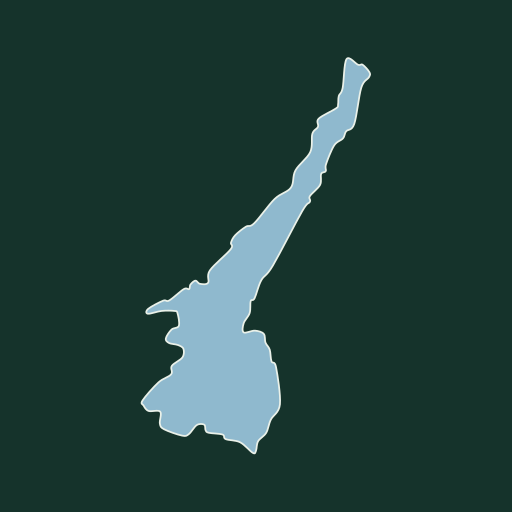
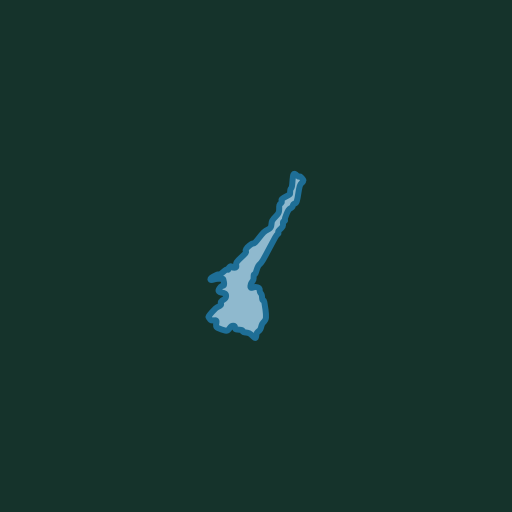
Add files via upload

Changed region(s): [[0.2812, 0.0938, 0.7188, 0.9062]]

diff --git a/index.html b/index.html
@@ -74,55 +74,57 @@
   .kz-wert small{font-size:1rem;font-family:'Archivo',sans-serif;color:var(--oliva-2)}
   .chart-box{position:relative;height:230px;margin-top:.6rem}
 
-  /* Signatur: Gardasee-Kontur, Pegellatte von Peschiera und Kennzahlen nebeneinander,
-     Kontur und Latte bewusst in derselben Höhe/Breite - direkt vergleichbare Paar-Grafik. */
-  .pegel{display:grid;grid-template-columns:100px 100px 1fr;gap:1rem;align-items:stretch}
-  @media (max-width:640px){.pegel{grid-template-columns:74px 74px 1fr;gap:.6rem}}
-  @media (max-width:420px){.pegel{grid-template-columns:1fr;gap:.8rem}
-    .kontur,.latte{height:190px;width:100%;max-width:220px}}
+  /* Signatur: der Gardasee als große Kontur, die selbst als Pegelanzeige dient - die Seefläche
+     füllt sich von unten nach oben entsprechend dem aktuellen Stand (Pegellatten-Skala,
+     CFG.lattenBereich), mit eingezeichneter Linie für den aktuellen Stand und das langjährige
+     Mittel. Technik: identischer See-Pfad einmal als leeres Becken, einmal als geclipptes
+     Rechteck (per <clipPath> auf denselben Pfad), dessen Höhe/Position transitioniert wird -
+     dasselbe Prinzip wie zuvor bei der separaten Pegellatte, nur auf die Seeform selbst angewandt. */
+  .pegel{display:grid;grid-template-columns:minmax(210px,360px) 1fr;gap:1.4rem;align-items:start}
+  @media (max-width:640px){.pegel{grid-template-columns:1fr;gap:1rem}}
 
-  .kontur{position:relative;height:250px;display:flex;align-items:center;justify-content:center;
-    background:#DCE0D6;border:1px solid var(--linea);border-radius:2px;overflow:hidden}
-  .kontur svg{width:82%;height:92%}
-  .kontur-see{fill:var(--acqua-2);stroke:var(--acqua);stroke-width:6}
+  .seefuell{position:relative;aspect-ratio:660/1134;max-width:360px;margin:0 auto;
+    background:#DCE0D6;border:1px solid var(--linea);border-radius:4px;overflow:hidden}
+  @media (max-width:640px){.seefuell{max-width:230px}}
+  .seefuell svg{position:absolute;inset:0;width:100%;height:100%;display:block}
+  .see-leer{fill:#CFD6C9;stroke:var(--linea);stroke-width:4}
+  .see-strich{stroke:var(--acqua);stroke-width:5}
+  #seeWasser{transition:y 1.1s cubic-bezier(.22,.8,.3,1), height 1.1s cubic-bezier(.22,.8,.3,1)}
+  .see-linie{stroke-width:4;vector-effect:non-scaling-stroke}
+  .see-linie-guardia{stroke:var(--allerta);stroke-width:4;stroke-dasharray:10 8}
+  .see-linie-mittel{stroke:var(--oliva-2);stroke-dasharray:5 7}
+  .see-linie-aktuell{stroke:var(--oliva);stroke-width:5;
+    transition:y1 1.1s cubic-bezier(.22,.8,.3,1), y2 1.1s cubic-bezier(.22,.8,.3,1)}
+  .see-label{position:absolute;left:4px;transform:translateY(50%);
+    font-family:'DM Mono',monospace;font-size:.6rem;line-height:1.2;white-space:nowrap;
+    color:var(--oliva-2);background:rgba(220,224,214,.88);padding:1px 4px;border-radius:2px;
+    pointer-events:none}
+  .see-label-aktuell{color:var(--oliva);font-weight:600;background:rgba(220,224,214,.96)}
+  .see-label-guardia{color:var(--allerta)}
+  .see-label-mittel{color:var(--oliva-2)}
 
-  .latte{position:relative;background:#DCE0D6;border:1px solid var(--linea);border-radius:2px;min-height:250px;overflow:hidden}
-  .wasser{
-    position:absolute;left:0;right:0;bottom:0;height:0;
-    background:linear-gradient(180deg,rgba(30,110,150,.55),rgba(30,110,150,.8));
-    transition:height 1.1s cubic-bezier(.22,.8,.3,1);
-  }
-  .wasser::before{content:"";position:absolute;top:0;left:0;right:0;height:5px;background:#0F5878;box-shadow:0 0 0 1px rgba(15,88,120,.35)}
-  .spanne5j{position:absolute;left:0;right:0;
-    background:repeating-linear-gradient(135deg,rgba(21,51,43,.10) 0 6px,rgba(21,51,43,.03) 6px 12px);
-    border-top:2px dashed var(--oliva-2);border-bottom:2px dashed var(--oliva-2);
-  }
-  .spanne5j-label{
-    position:absolute;left:3px;font-family:'DM Mono',monospace;font-size:.58rem;line-height:1.15;
-    color:var(--oliva-2);background:rgba(220,224,214,.85);padding:0 2px;max-width:calc(100% - 6px);
-  }
-  .spanne5j-label.spanne5j-max{top:2px}
-  .spanne5j-label.spanne5j-min{bottom:2px}
-  .marke{position:absolute;left:0;right:0;border-top:1px solid rgba(21,51,43,.35)}
-  .marke span{
-    position:absolute;right:4px;top:-1.05em;font-family:'DM Mono',monospace;
-    font-size:.62rem;color:var(--oliva-2);background:rgba(220,224,214,.75);padding:0 2px;
-  }
-  .marke.guardia{border-top:2px dashed var(--allerta)}
-  .marke.guardia span{color:var(--allerta);font-weight:500}
-  .marke.null{border-top:1.5px solid var(--oliva)}
-  .marke.null span{color:var(--oliva)}
   .pegel-info{grid-column:1 / -1}
-  @media (min-width:421px){.pegel-info{grid-column:3}}
+  @media (min-width:641px){.pegel-info{grid-column:2}}
   .pegel-info dl{margin:0}
   .pegel-info dt{font-size:.7rem;text-transform:uppercase;letter-spacing:.08em;color:var(--oliva-2);margin-top:.75rem}
   .pegel-info dd{margin:.1rem 0 0;font-family:'DM Mono',monospace;font-size:.98rem}
+  .kennzahl{align-items:baseline}
+  .trend{font-size:1.5rem;line-height:1}
+  .trend.auf{color:var(--acqua)}
+  .trend.ab{color:var(--trocken)}
+  .trend.stabil{color:var(--oliva-2)}
   .tendenz{font-family:'Archivo',sans-serif;font-size:.85rem;color:var(--oliva-2)}
   .fahne{display:inline-block;font-family:'DM Mono',monospace;font-size:.68rem;letter-spacing:.06em;
     padding:.16rem .45rem;border-radius:2px;border:1px solid currentColor;margin-top:.6rem}
   .fahne.hoch{color:var(--allerta)}
   .fahne.normal{color:var(--acqua)}
   .fahne.tief{color:var(--trocken)}
+
+  .sparkline-wrap{display:flex;align-items:center;gap:.6rem;margin:.8rem 0 .2rem}
+  .sparkline{width:96px;height:28px;flex:none}
+  .sparkline-flaeche{fill:rgba(30,110,150,.14);stroke:none}
+  .sparkline-linie{fill:none;stroke:var(--acqua);stroke-width:2}
+  .sparkline-label{font-size:.68rem;color:var(--oliva-2)}
 
   .meldung{
     border-left:3px solid var(--allerta);background:#F6F0E2;padding:.6rem .8rem;
@@ -132,7 +134,7 @@
   footer{max-width:900px;margin:0 auto;padding:0 1rem 2.5rem;font-size:.74rem;color:var(--oliva-2)}
   footer a{color:var(--acqua)}
   .laedt{color:var(--oliva-2);font-family:'DM Mono',monospace;font-size:.8rem}
-  @media (prefers-reduced-motion:reduce){.wasser{transition:none}}
+  @media (prefers-reduced-motion:reduce){#seeWasser,.see-linie-aktuell{transition:none}}
 </style>
 </head>
 <body>
@@ -156,27 +158,46 @@
     </div>
 
     <div class="pegel">
-      <div class="kontur" aria-hidden="true">
-        <svg viewBox="0 0 660 1134" xmlns="http://www.w3.org/2000/svg">
-          <path class="kontur-see" d="M 633.00 24.00 C 627.67 20.50 627.67 26.67 620.00 24.00 C 612.33 21.33 594.33 -3.00 587.00 8.00 C 579.67 19.00 579.67 72.50 576.00 90.00 C 572.33 107.50 567.17 105.17 565.00 113.00 C 562.83 120.83 564.33 131.17 563.00 137.00 C 561.67 142.83 566.17 141.33 557.00 148.00 C 547.83 154.67 516.50 168.33 508.00 177.00 C 499.50 185.67 509.00 192.83 506.00 200.00 C 503.00 207.17 493.67 208.00 490.00 220.00 C 486.33 232.00 492.00 254.67 484.00 272.00 C 476.00 289.33 451.17 307.17 442.00 324.00 C 432.83 340.83 438.83 359.50 429.00 373.00 C 419.17 386.50 400.33 388.17 383.00 405.00 C 365.67 421.83 338.67 460.83 325.00 474.00 C 311.33 487.17 310.00 478.33 301.00 484.00 C 292.00 489.67 278.00 500.50 271.00 508.00 C 264.00 515.50 261.17 522.33 259.00 529.00 C 256.83 535.67 268.00 534.83 258.00 548.00 C 248.00 561.17 209.67 592.17 199.00 608.00 C 188.33 623.83 198.67 636.67 194.00 643.00 C 189.33 649.33 177.00 647.00 171.00 646.00 C 165.00 645.00 162.50 636.67 158.00 637.00 C 153.50 637.33 147.00 644.00 144.00 648.00 C 141.00 652.00 143.17 658.83 140.00 661.00 C 136.83 663.17 134.33 655.67 125.00 661.00 C 115.67 666.33 93.83 687.50 84.00 693.00 C 74.17 698.50 76.00 690.00 66.00 694.00 C 56.00 698.00 31.17 710.83 24.00 717.00 C 16.83 723.17 16.67 730.00 23.00 731.00 C 29.33 732.00 49.50 724.33 62.00 723.00 C 74.50 721.67 90.50 722.00 98.00 723.00 C 105.50 724.00 104.83 722.00 107.00 729.00 C 109.17 736.00 113.83 757.17 111.00 765.00 C 108.17 772.83 96.17 770.00 90.00 776.00 C 83.83 782.00 75.17 794.67 74.00 801.00 C 72.83 807.33 77.17 810.83 83.00 814.00 C 88.83 817.17 102.17 817.17 109.00 820.00 C 115.83 822.83 122.00 825.17 124.00 831.00 C 126.00 836.83 126.50 847.00 121.00 855.00 C 115.50 863.00 96.33 871.00 91.00 879.00 C 85.67 887.00 95.33 895.17 89.00 903.00 C 82.67 910.83 66.50 913.67 53.00 926.00 C 39.50 938.33 15.00 966.00 8.00 977.00 C 1.00 988.00 8.17 987.00 11.00 992.00 C 13.83 997.00 17.17 1004.17 25.00 1007.00 C 32.83 1009.83 52.67 1003.00 58.00 1009.00 C 63.33 1015.00 55.17 1034.67 57.00 1043.00 C 58.83 1051.33 58.50 1053.33 69.00 1059.00 C 79.50 1064.67 108.33 1074.67 120.00 1077.00 C 131.67 1079.33 132.00 1078.00 139.00 1073.00 C 146.00 1068.00 154.67 1051.50 162.00 1047.00 C 169.33 1042.50 178.83 1043.50 183.00 1046.00 C 187.17 1048.50 184.83 1058.17 187.00 1062.00 C 189.17 1065.83 188.00 1067.00 196.00 1069.00 C 204.00 1071.00 227.00 1071.00 235.00 1074.00 C 243.00 1077.00 235.67 1083.33 244.00 1087.00 C 252.33 1090.67 272.17 1089.50 285.00 1096.00 C 297.83 1102.50 313.50 1122.00 321.00 1126.00 C 328.50 1130.00 327.50 1125.50 330.00 1120.00 C 332.50 1114.50 331.17 1101.50 336.00 1093.00 C 340.83 1084.50 353.00 1079.17 359.00 1069.00 C 365.00 1058.83 365.50 1045.50 372.00 1032.00 C 378.50 1018.50 395.50 1012.83 398.00 988.00 C 400.50 963.17 391.00 903.33 387.00 883.00 C 383.00 862.67 377.00 874.33 374.00 866.00 C 371.00 857.67 371.83 841.83 369.00 833.00 C 366.17 824.17 359.83 820.50 357.00 813.00 C 354.17 805.50 357.00 793.67 352.00 788.00 C 347.00 782.33 336.50 779.67 327.00 779.00 C 317.50 778.33 300.33 787.50 295.00 784.00 C 289.67 780.50 292.17 767.17 295.00 758.00 C 297.83 748.83 308.67 739.50 312.00 729.00 C 315.33 718.50 312.67 702.00 315.00 695.00 C 317.33 688.00 321.00 696.83 326.00 687.00 C 331.00 677.17 336.33 651.50 345.00 636.00 C 353.67 620.50 358.67 626.67 378.00 594.00 C 397.33 561.33 443.50 470.17 461.00 440.00 C 478.50 409.83 479.33 420.17 483.00 413.00 C 486.67 405.83 478.17 405.00 483.00 397.00 C 487.83 389.00 506.67 375.50 512.00 365.00 C 517.33 354.50 512.33 340.50 515.00 334.00 C 517.67 327.50 525.67 330.67 528.00 326.00 C 530.33 321.33 525.00 318.17 529.00 306.00 C 533.00 293.83 544.00 265.17 552.00 253.00 C 560.00 240.83 571.33 239.67 577.00 233.00 C 582.67 226.33 580.67 219.83 586.00 213.00 C 591.33 206.17 601.83 212.67 609.00 192.00 C 616.17 171.33 622.00 111.17 629.00 89.00 C 636.00 66.83 647.17 66.33 651.00 59.00 C 654.83 51.67 655.00 50.83 652.00 45.00 C 649.00 39.17 638.33 27.50 633.00 24.00 Z"/>
+      <div class="seefuell" aria-hidden="true">
+        <svg viewBox="0 0 660 1134" xmlns="http://www.w3.org/2000/svg" preserveAspectRatio="xMidYMid meet">
+          <defs>
+            <clipPath id="seeClip" clipPathUnits="userSpaceOnUse">
+              <path d="M 633.00 24.00 C 627.67 20.50 627.67 26.67 620.00 24.00 C 612.33 21.33 594.33 -3.00 587.00 8.00 C 579.67 19.00 579.67 72.50 576.00 90.00 C 572.33 107.50 567.17 105.17 565.00 113.00 C 562.83 120.83 564.33 131.17 563.00 137.00 C 561.67 142.83 566.17 141.33 557.00 148.00 C 547.83 154.67 516.50 168.33 508.00 177.00 C 499.50 185.67 509.00 192.83 506.00 200.00 C 503.00 207.17 493.67 208.00 490.00 220.00 C 486.33 232.00 492.00 254.67 484.00 272.00 C 476.00 289.33 451.17 307.17 442.00 324.00 C 432.83 340.83 438.83 359.50 429.00 373.00 C 419.17 386.50 400.33 388.17 383.00 405.00 C 365.67 421.83 338.67 460.83 325.00 474.00 C 311.33 487.17 310.00 478.33 301.00 484.00 C 292.00 489.67 278.00 500.50 271.00 508.00 C 264.00 515.50 261.17 522.33 259.00 529.00 C 256.83 535.67 268.00 534.83 258.00 548.00 C 248.00 561.17 209.67 592.17 199.00 608.00 C 188.33 623.83 198.67 636.67 194.00 643.00 C 189.33 649.33 177.00 647.00 171.00 646.00 C 165.00 645.00 162.50 636.67 158.00 637.00 C 153.50 637.33 147.00 644.00 144.00 648.00 C 141.00 652.00 143.17 658.83 140.00 661.00 C 136.83 663.17 134.33 655.67 125.00 661.00 C 115.67 666.33 93.83 687.50 84.00 693.00 C 74.17 698.50 76.00 690.00 66.00 694.00 C 56.00 698.00 31.17 710.83 24.00 717.00 C 16.83 723.17 16.67 730.00 23.00 731.00 C 29.33 732.00 49.50 724.33 62.00 723.00 C 74.50 721.67 90.50 722.00 98.00 723.00 C 105.50 724.00 104.83 722.00 107.00 729.00 C 109.17 736.00 113.83 757.17 111.00 765.00 C 108.17 772.83 96.17 770.00 90.00 776.00 C 83.83 782.00 75.17 794.67 74.00 801.00 C 72.83 807.33 77.17 810.83 83.00 814.00 C 88.83 817.17 102.17 817.17 109.00 820.00 C 115.83 822.83 122.00 825.17 124.00 831.00 C 126.00 836.83 126.50 847.00 121.00 855.00 C 115.50 863.00 96.33 871.00 91.00 879.00 C 85.67 887.00 95.33 895.17 89.00 903.00 C 82.67 910.83 66.50 913.67 53.00 926.00 C 39.50 938.33 15.00 966.00 8.00 977.00 C 1.00 988.00 8.17 987.00 11.00 992.00 C 13.83 997.00 17.17 1004.17 25.00 1007.00 C 32.83 1009.83 52.67 1003.00 58.00 1009.00 C 63.33 1015.00 55.17 1034.67 57.00 1043.00 C 58.83 1051.33 58.50 1053.33 69.00 1059.00 C 79.50 1064.67 108.33 1074.67 120.00 1077.00 C 131.67 1079.33 132.00 1078.00 139.00 1073.00 C 146.00 1068.00 154.67 1051.50 162.00 1047.00 C 169.33 1042.50 178.83 1043.50 183.00 1046.00 C 187.17 1048.50 184.83 1058.17 187.00 1062.00 C 189.17 1065.83 188.00 1067.00 196.00 1069.00 C 204.00 1071.00 227.00 1071.00 235.00 1074.00 C 243.00 1077.00 235.67 1083.33 244.00 1087.00 C 252.33 1090.67 272.17 1089.50 285.00 1096.00 C 297.83 1102.50 313.50 1122.00 321.00 1126.00 C 328.50 1130.00 327.50 1125.50 330.00 1120.00 C 332.50 1114.50 331.17 1101.50 336.00 1093.00 C 340.83 1084.50 353.00 1079.17 359.00 1069.00 C 365.00 1058.83 365.50 1045.50 372.00 1032.00 C 378.50 1018.50 395.50 1012.83 398.00 988.00 C 400.50 963.17 391.00 903.33 387.00 883.00 C 383.00 862.67 377.00 874.33 374.00 866.00 C 371.00 857.67 371.83 841.83 369.00 833.00 C 366.17 824.17 359.83 820.50 357.00 813.00 C 354.17 805.50 357.00 793.67 352.00 788.00 C 347.00 782.33 336.50 779.67 327.00 779.00 C 317.50 778.33 300.33 787.50 295.00 784.00 C 289.67 780.50 292.17 767.17 295.00 758.00 C 297.83 748.83 308.67 739.50 312.00 729.00 C 315.33 718.50 312.67 702.00 315.00 695.00 C 317.33 688.00 321.00 696.83 326.00 687.00 C 331.00 677.17 336.33 651.50 345.00 636.00 C 353.67 620.50 358.67 626.67 378.00 594.00 C 397.33 561.33 443.50 470.17 461.00 440.00 C 478.50 409.83 479.33 420.17 483.00 413.00 C 486.67 405.83 478.17 405.00 483.00 397.00 C 487.83 389.00 506.67 375.50 512.00 365.00 C 517.33 354.50 512.33 340.50 515.00 334.00 C 517.67 327.50 525.67 330.67 528.00 326.00 C 530.33 321.33 525.00 318.17 529.00 306.00 C 533.00 293.83 544.00 265.17 552.00 253.00 C 560.00 240.83 571.33 239.67 577.00 233.00 C 582.67 226.33 580.67 219.83 586.00 213.00 C 591.33 206.17 601.83 212.67 609.00 192.00 C 616.17 171.33 622.00 111.17 629.00 89.00 C 636.00 66.83 647.17 66.33 651.00 59.00 C 654.83 51.67 655.00 50.83 652.00 45.00 C 649.00 39.17 638.33 27.50 633.00 24.00 Z"/>
+            </clipPath>
+            <linearGradient id="seeWasserGrad" x1="0" y1="1" x2="0" y2="0">
+              <stop offset="0%" stop-color="#1E6E96" stop-opacity=".85"/>
+              <stop offset="100%" stop-color="#1E6E96" stop-opacity=".55"/>
+            </linearGradient>
+          </defs>
+          <path class="see-leer" d="M 633.00 24.00 C 627.67 20.50 627.67 26.67 620.00 24.00 C 612.33 21.33 594.33 -3.00 587.00 8.00 C 579.67 19.00 579.67 72.50 576.00 90.00 C 572.33 107.50 567.17 105.17 565.00 113.00 C 562.83 120.83 564.33 131.17 563.00 137.00 C 561.67 142.83 566.17 141.33 557.00 148.00 C 547.83 154.67 516.50 168.33 508.00 177.00 C 499.50 185.67 509.00 192.83 506.00 200.00 C 503.00 207.17 493.67 208.00 490.00 220.00 C 486.33 232.00 492.00 254.67 484.00 272.00 C 476.00 289.33 451.17 307.17 442.00 324.00 C 432.83 340.83 438.83 359.50 429.00 373.00 C 419.17 386.50 400.33 388.17 383.00 405.00 C 365.67 421.83 338.67 460.83 325.00 474.00 C 311.33 487.17 310.00 478.33 301.00 484.00 C 292.00 489.67 278.00 500.50 271.00 508.00 C 264.00 515.50 261.17 522.33 259.00 529.00 C 256.83 535.67 268.00 534.83 258.00 548.00 C 248.00 561.17 209.67 592.17 199.00 608.00 C 188.33 623.83 198.67 636.67 194.00 643.00 C 189.33 649.33 177.00 647.00 171.00 646.00 C 165.00 645.00 162.50 636.67 158.00 637.00 C 153.50 637.33 147.00 644.00 144.00 648.00 C 141.00 652.00 143.17 658.83 140.00 661.00 C 136.83 663.17 134.33 655.67 125.00 661.00 C 115.67 666.33 93.83 687.50 84.00 693.00 C 74.17 698.50 76.00 690.00 66.00 694.00 C 56.00 698.00 31.17 710.83 24.00 717.00 C 16.83 723.17 16.67 730.00 23.00 731.00 C 29.33 732.00 49.50 724.33 62.00 723.00 C 74.50 721.67 90.50 722.00 98.00 723.00 C 105.50 724.00 104.83 722.00 107.00 729.00 C 109.17 736.00 113.83 757.17 111.00 765.00 C 108.17 772.83 96.17 770.00 90.00 776.00 C 83.83 782.00 75.17 794.67 74.00 801.00 C 72.83 807.33 77.17 810.83 83.00 814.00 C 88.83 817.17 102.17 817.17 109.00 820.00 C 115.83 822.83 122.00 825.17 124.00 831.00 C 126.00 836.83 126.50 847.00 121.00 855.00 C 115.50 863.00 96.33 871.00 91.00 879.00 C 85.67 887.00 95.33 895.17 89.00 903.00 C 82.67 910.83 66.50 913.67 53.00 926.00 C 39.50 938.33 15.00 966.00 8.00 977.00 C 1.00 988.00 8.17 987.00 11.00 992.00 C 13.83 997.00 17.17 1004.17 25.00 1007.00 C 32.83 1009.83 52.67 1003.00 58.00 1009.00 C 63.33 1015.00 55.17 1034.67 57.00 1043.00 C 58.83 1051.33 58.50 1053.33 69.00 1059.00 C 79.50 1064.67 108.33 1074.67 120.00 1077.00 C 131.67 1079.33 132.00 1078.00 139.00 1073.00 C 146.00 1068.00 154.67 1051.50 162.00 1047.00 C 169.33 1042.50 178.83 1043.50 183.00 1046.00 C 187.17 1048.50 184.83 1058.17 187.00 1062.00 C 189.17 1065.83 188.00 1067.00 196.00 1069.00 C 204.00 1071.00 227.00 1071.00 235.00 1074.00 C 243.00 1077.00 235.67 1083.33 244.00 1087.00 C 252.33 1090.67 272.17 1089.50 285.00 1096.00 C 297.83 1102.50 313.50 1122.00 321.00 1126.00 C 328.50 1130.00 327.50 1125.50 330.00 1120.00 C 332.50 1114.50 331.17 1101.50 336.00 1093.00 C 340.83 1084.50 353.00 1079.17 359.00 1069.00 C 365.00 1058.83 365.50 1045.50 372.00 1032.00 C 378.50 1018.50 395.50 1012.83 398.00 988.00 C 400.50 963.17 391.00 903.33 387.00 883.00 C 383.00 862.67 377.00 874.33 374.00 866.00 C 371.00 857.67 371.83 841.83 369.00 833.00 C 366.17 824.17 359.83 820.50 357.00 813.00 C 354.17 805.50 357.00 793.67 352.00 788.00 C 347.00 782.33 336.50 779.67 327.00 779.00 C 317.50 778.33 300.33 787.50 295.00 784.00 C 289.67 780.50 292.17 767.17 295.00 758.00 C 297.83 748.83 308.67 739.50 312.00 729.00 C 315.33 718.50 312.67 702.00 315.00 695.00 C 317.33 688.00 321.00 696.83 326.00 687.00 C 331.00 677.17 336.33 651.50 345.00 636.00 C 353.67 620.50 358.67 626.67 378.00 594.00 C 397.33 561.33 443.50 470.17 461.00 440.00 C 478.50 409.83 479.33 420.17 483.00 413.00 C 486.67 405.83 478.17 405.00 483.00 397.00 C 487.83 389.00 506.67 375.50 512.00 365.00 C 517.33 354.50 512.33 340.50 515.00 334.00 C 517.67 327.50 525.67 330.67 528.00 326.00 C 530.33 321.33 525.00 318.17 529.00 306.00 C 533.00 293.83 544.00 265.17 552.00 253.00 C 560.00 240.83 571.33 239.67 577.00 233.00 C 582.67 226.33 580.67 219.83 586.00 213.00 C 591.33 206.17 601.83 212.67 609.00 192.00 C 616.17 171.33 622.00 111.17 629.00 89.00 C 636.00 66.83 647.17 66.33 651.00 59.00 C 654.83 51.67 655.00 50.83 652.00 45.00 C 649.00 39.17 638.33 27.50 633.00 24.00 Z"/>
+          <g clip-path="url(#seeClip)">
+            <rect id="seeWasser" x="0" y="1134" width="660" height="0" fill="url(#seeWasserGrad)"/>
+            <line id="seeGuardiaLinie" class="see-linie see-linie-guardia" x1="0" x2="660" y1="0" y2="0"/>
+            <line id="seeMittelLinie" class="see-linie see-linie-mittel" x1="0" x2="660" y1="0" y2="0"/>
+            <line id="seeAktuellLinie" class="see-linie see-linie-aktuell" x1="0" x2="660" y1="0" y2="0"/>
+          </g>
+          <path class="see-strich" fill="none" d="M 633.00 24.00 C 627.67 20.50 627.67 26.67 620.00 24.00 C 612.33 21.33 594.33 -3.00 587.00 8.00 C 579.67 19.00 579.67 72.50 576.00 90.00 C 572.33 107.50 567.17 105.17 565.00 113.00 C 562.83 120.83 564.33 131.17 563.00 137.00 C 561.67 142.83 566.17 141.33 557.00 148.00 C 547.83 154.67 516.50 168.33 508.00 177.00 C 499.50 185.67 509.00 192.83 506.00 200.00 C 503.00 207.17 493.67 208.00 490.00 220.00 C 486.33 232.00 492.00 254.67 484.00 272.00 C 476.00 289.33 451.17 307.17 442.00 324.00 C 432.83 340.83 438.83 359.50 429.00 373.00 C 419.17 386.50 400.33 388.17 383.00 405.00 C 365.67 421.83 338.67 460.83 325.00 474.00 C 311.33 487.17 310.00 478.33 301.00 484.00 C 292.00 489.67 278.00 500.50 271.00 508.00 C 264.00 515.50 261.17 522.33 259.00 529.00 C 256.83 535.67 268.00 534.83 258.00 548.00 C 248.00 561.17 209.67 592.17 199.00 608.00 C 188.33 623.83 198.67 636.67 194.00 643.00 C 189.33 649.33 177.00 647.00 171.00 646.00 C 165.00 645.00 162.50 636.67 158.00 637.00 C 153.50 637.33 147.00 644.00 144.00 648.00 C 141.00 652.00 143.17 658.83 140.00 661.00 C 136.83 663.17 134.33 655.67 125.00 661.00 C 115.67 666.33 93.83 687.50 84.00 693.00 C 74.17 698.50 76.00 690.00 66.00 694.00 C 56.00 698.00 31.17 710.83 24.00 717.00 C 16.83 723.17 16.67 730.00 23.00 731.00 C 29.33 732.00 49.50 724.33 62.00 723.00 C 74.50 721.67 90.50 722.00 98.00 723.00 C 105.50 724.00 104.83 722.00 107.00 729.00 C 109.17 736.00 113.83 757.17 111.00 765.00 C 108.17 772.83 96.17 770.00 90.00 776.00 C 83.83 782.00 75.17 794.67 74.00 801.00 C 72.83 807.33 77.17 810.83 83.00 814.00 C 88.83 817.17 102.17 817.17 109.00 820.00 C 115.83 822.83 122.00 825.17 124.00 831.00 C 126.00 836.83 126.50 847.00 121.00 855.00 C 115.50 863.00 96.33 871.00 91.00 879.00 C 85.67 887.00 95.33 895.17 89.00 903.00 C 82.67 910.83 66.50 913.67 53.00 926.00 C 39.50 938.33 15.00 966.00 8.00 977.00 C 1.00 988.00 8.17 987.00 11.00 992.00 C 13.83 997.00 17.17 1004.17 25.00 1007.00 C 32.83 1009.83 52.67 1003.00 58.00 1009.00 C 63.33 1015.00 55.17 1034.67 57.00 1043.00 C 58.83 1051.33 58.50 1053.33 69.00 1059.00 C 79.50 1064.67 108.33 1074.67 120.00 1077.00 C 131.67 1079.33 132.00 1078.00 139.00 1073.00 C 146.00 1068.00 154.67 1051.50 162.00 1047.00 C 169.33 1042.50 178.83 1043.50 183.00 1046.00 C 187.17 1048.50 184.83 1058.17 187.00 1062.00 C 189.17 1065.83 188.00 1067.00 196.00 1069.00 C 204.00 1071.00 227.00 1071.00 235.00 1074.00 C 243.00 1077.00 235.67 1083.33 244.00 1087.00 C 252.33 1090.67 272.17 1089.50 285.00 1096.00 C 297.83 1102.50 313.50 1122.00 321.00 1126.00 C 328.50 1130.00 327.50 1125.50 330.00 1120.00 C 332.50 1114.50 331.17 1101.50 336.00 1093.00 C 340.83 1084.50 353.00 1079.17 359.00 1069.00 C 365.00 1058.83 365.50 1045.50 372.00 1032.00 C 378.50 1018.50 395.50 1012.83 398.00 988.00 C 400.50 963.17 391.00 903.33 387.00 883.00 C 383.00 862.67 377.00 874.33 374.00 866.00 C 371.00 857.67 371.83 841.83 369.00 833.00 C 366.17 824.17 359.83 820.50 357.00 813.00 C 354.17 805.50 357.00 793.67 352.00 788.00 C 347.00 782.33 336.50 779.67 327.00 779.00 C 317.50 778.33 300.33 787.50 295.00 784.00 C 289.67 780.50 292.17 767.17 295.00 758.00 C 297.83 748.83 308.67 739.50 312.00 729.00 C 315.33 718.50 312.67 702.00 315.00 695.00 C 317.33 688.00 321.00 696.83 326.00 687.00 C 331.00 677.17 336.33 651.50 345.00 636.00 C 353.67 620.50 358.67 626.67 378.00 594.00 C 397.33 561.33 443.50 470.17 461.00 440.00 C 478.50 409.83 479.33 420.17 483.00 413.00 C 486.67 405.83 478.17 405.00 483.00 397.00 C 487.83 389.00 506.67 375.50 512.00 365.00 C 517.33 354.50 512.33 340.50 515.00 334.00 C 517.67 327.50 525.67 330.67 528.00 326.00 C 530.33 321.33 525.00 318.17 529.00 306.00 C 533.00 293.83 544.00 265.17 552.00 253.00 C 560.00 240.83 571.33 239.67 577.00 233.00 C 582.67 226.33 580.67 219.83 586.00 213.00 C 591.33 206.17 601.83 212.67 609.00 192.00 C 616.17 171.33 622.00 111.17 629.00 89.00 C 636.00 66.83 647.17 66.33 651.00 59.00 C 654.83 51.67 655.00 50.83 652.00 45.00 C 649.00 39.17 638.33 27.50 633.00 24.00 Z"/>
         </svg>
-      </div>
-      <div class="latte" id="latte" aria-hidden="true">
-        <div class="spanne5j" id="spanne5j">
-          <span class="spanne5j-label spanne5j-max" id="spanne5jMax"></span>
-          <span class="spanne5j-label spanne5j-min" id="spanne5jMin"></span>
-        </div>
-        <div class="wasser" id="wasser"></div>
+        <div class="see-label see-label-guardia" id="seeLabelGuardia">Quota di guardia +135 cm</div>
+        <div class="see-label see-label-mittel" id="seeLabelMittel">Ø langj. Mittel</div>
+        <div class="see-label see-label-aktuell" id="seeLabelAktuell">–</div>
       </div>
       <div class="pegel-info">
         <div class="kennzahl">
           <div class="kz-wert" id="pegelWert">–<small> cm</small></div>
+          <div class="trend" id="pegelTrendIcon" aria-hidden="true"></div>
         </div>
         <div class="tendenz" id="pegelTendenz">über dem Nullpunkt von Peschiera</div>
         <div id="pegelFahne"></div>
+        <div class="sparkline-wrap">
+          <svg id="trendSparkline" class="sparkline" viewBox="0 0 200 40" preserveAspectRatio="none" aria-hidden="true"></svg>
+          <span class="sparkline-label">Verlauf, letzte 14 Tage</span>
+        </div>
         <dl>
           <dt>Quota di guardia</dt>
           <dd>+135 cm</dd>
+          <dt>Langjähriges Mittel<sup>†</sup></dt>
+          <dd>≈ +106 cm</dd>
           <dt>Änderung in 24 h</dt>
           <dd id="pegelDelta">–</dd>
           <dt>Messung</dt>
@@ -186,7 +207,7 @@
     </div>
 
     <div class="chart-box" style="height:180px"><canvas id="pegelChart"></canvas></div>
-    <p class="hinweis">Der Seespiegel wird über die Wehre von Salionze am Mincio geregelt; ab +135 cm über dem Nullpunkt gilt die Warnschwelle. Der schraffierte Bereich an der Pegellatte markiert die Spanne zwischen dem niedrigsten (Apr. 2023) und dem höchsten (Mai 2024) Stand der letzten 5 Jahre.</p>
+    <p class="hinweis">Der Seespiegel wird über die Wehre von Salionze am Mincio geregelt; ab +135 cm über dem Nullpunkt gilt die Warnschwelle. In der Seegrafik oben markiert die durchgezogene dunkle Linie den aktuellen Stand, die gepunktete Linie das langjährige Mittel<sup>†</sup> und die gestrichelte orangene Linie die Warnschwelle.</p>
 
     <h3 class="abschnitt-titel">Verlauf – letzte 4 Monate</h3>
     <div class="chart-box" id="historieBox" style="height:220px"><canvas id="pegelHistorieChart"></canvas></div>
@@ -198,8 +219,9 @@
 <footer class="innen">
   Seepegel: <a href="https://www.arpa.veneto.it" target="_blank" rel="noopener">ARPAV</a> (CC BY 4.0), Pegellatte Peschiera ·
   5-Jahres-Spanne: <a href="https://www.comunitadelgarda.it" target="_blank" rel="noopener">Comunità del Garda</a> / AIPO, siehe Hinweis oben ·
-  Gardasee-Kontur: aus einer Kartenvorlage extrahierte, vereinfachte Silhouette, keine amtliche Vermessung.
-  Alle Werte sind automatisch veröffentlicht und nicht validiert – sie können sich nachträglich noch ändern.
+  Gardasee-Kontur: vereinfachte, künstlerische Darstellung, keine amtliche Vermessung.
+  Alle Werte sind automatisch veröffentlicht und nicht validiert – sie können sich nachträglich noch ändern.<br>
+  † Langjähriges Mittel: ca. +106 cm, recherchierter Anhaltswert nach <a href="https://www.gardanotizie.it" target="_blank" rel="noopener">gardanotizie.it</a>, keine amtliche Langzeitstatistik – wird bei besser belegter Quelle angepasst.
 </footer>
 
 <script>
@@ -228,7 +250,13 @@ const CFG = {
     maxCm: 138,  // Hochwasser, ab 16. Mai 2024 (höchster Stand seit 1997)
     minLabel: 'Min. 5 J. (Apr. 2023)',
     maxLabel: 'Max. 5 J. (Mai 2024)'
-  }
+  },
+  // Langjähriges Mittel des Pegels Peschiera - ARPAV liefert dafür keine öffentliche
+  // Langzeitstatistik, daher von Hand recherchiert (gardanotizie.it) statt live berechnet.
+  // Bester bislang gefundener Anhaltswert; bei besserer Quelle bitte hier UND in der
+  // Fußnote im HTML anpassen.
+  mittelCm: 106,
+  mittelLabel: 'Ø +106 cm langj. Mittel'
 };
 
 const $ = s => document.querySelector(s);
@@ -244,6 +272,10 @@ function meldung(text){
  *  Seepegel – ARPAV XML (letzte ~3 Tage, 103 Stationen)
  * ------------------------------------------------------------------ */
 let pegelChart;
+let letzterErfolgZeit = null;   // Zeitpunkt des letzten erfolgreichen ARPAV-Abrufs (Browserzeit,
+                                  // nicht zu verwechseln mit dem Messzeitpunkt in #pegelZeit) -
+                                  // damit der Fehlerfall ehrlich sagen kann, dass noch der alte
+                                  // Stand angezeigt wird, statt fälschlich "nichts geladen" zu wirken.
 
 async function ladeSeepegel(){
   try{
@@ -289,48 +321,94 @@ async function ladeSeepegel(){
     else if (letzte.cm < 50)             f.innerHTML = '<span class="fahne tief">niedriger Seestand</span>';
     else                                 f.innerHTML = '<span class="fahne normal">im üblichen Bereich</span>';
 
-    zeichnePegellatte(letzte.cm);
+    const trend = $('#pegelTrendIcon');
+    if (delta===null){ trend.textContent=''; trend.className='trend'; }
+    else if (Math.abs(delta) < 0.5){ trend.textContent='→'; trend.className='trend stabil'; trend.title='stabil'; }
+    else if (delta > 0){ trend.textContent='↑'; trend.className='trend auf'; trend.title='steigend'; }
+    else { trend.textContent='↓'; trend.className='trend ab'; trend.title='fallend'; }
+
+    zeichneSeeFuellung(letzte.cm);
     zeichnePegelChart(reihe);
+    letzterErfolgZeit = new Date();
 
   }catch(e){
-    $('#pegelQuelle').textContent = 'ARPAV nicht erreichbar';
-    meldung('Der Seepegel konnte gerade nicht geladen werden (ARPAV antwortet nicht oder zu langsam). '+
-      'Ein erneuter Versuch über „Daten neu laden“ hilft meist – die Quelle liefert nicht immer zuverlässig. '+
-      'Lokal testen erfordert <code>netlify dev</code>, da die Netlify Function sonst nicht läuft.');
+    if (letzterErfolgZeit){
+      // Es gab bereits einen erfolgreichen Abruf zuvor - die zuletzt geladenen Werte bleiben
+      // sichtbar (nützlicher als sie zu löschen), aber die Meldung muss ehrlich sagen, dass es
+      // nicht der aktuellste Stand ist, sonst wirkt es widersprüchlich (Fehlermeldung oben,
+      // scheinbar frische Zahlen unten).
+      $('#pegelQuelle').innerHTML = `ARPAV gerade nicht erreichbar<br>zeige letzten bekannten Stand (${tag(letzterErfolgZeit)}, ${uhr(letzterErfolgZeit)} abgerufen)`;
+      meldung('Die Seepegel-Daten konnten gerade nicht aktualisiert werden (ARPAV antwortet nicht oder zu langsam). '+
+        'Die unten angezeigten Zahlen sind der zuletzt erfolgreich abgerufene Stand, nicht zwingend der aktuellste. '+
+        'Ein erneutes Laden der Seite hilft meist – die Quelle liefert nicht immer zuverlässig. '+
+        'Lokal testen erfordert <code>netlify dev</code>, da die Netlify Function sonst nicht läuft.');
+    } else {
+      $('#pegelQuelle').textContent = 'ARPAV nicht erreichbar';
+      meldung('Der Seepegel konnte gerade nicht geladen werden (ARPAV antwortet nicht oder zu langsam). '+
+        'Ein erneutes Laden der Seite hilft meist – die Quelle liefert nicht immer zuverlässig. '+
+        'Lokal testen erfordert <code>netlify dev</code>, da die Netlify Function sonst nicht läuft.');
+    }
   }
 }
 
-function zeichnePegellatte(cm){
+/* Der Gardasee-Umriss selbst dient als Pegelanzeige: ein zum See-Pfad identisches
+ * <rect>, das per <clipPath> auf die Seeform beschnitten wird, füllt sich von unten
+ * (y/height in SVG-Einheiten, Höhe 1134 = ganze viewBox) entsprechend dem aktuellen
+ * Stand auf derselben Skala (CFG.lattenBereich) wie zuvor die separate Pegellatte.
+ * Marker-Linien für aktuellen Stand, langjähriges Mittel und Warnschwelle liegen in
+ * derselben geclippten Gruppe, erscheinen also nur innerhalb der Seefläche. */
+function zeichneSeeFuellung(cm){
   const {min,max} = CFG.lattenBereich;
-  const pos = w => ((w-min)/(max-min))*100;   // % von unten
-  const latte = $('#latte');
-  latte.querySelectorAll('.marke').forEach(m => m.remove());
+  const H = 1134;   // Höhe der viewBox
+  const pos = w => Math.max(0, Math.min(100, ((w-min)/(max-min))*100));   // % von unten
+  const yFuer = pct => H - (pct/100)*H;
 
-  const marken = [
-    {w:0,   t:'0',    k:'null'},
-    {w:50,  t:'+50'},
-    {w:100, t:'+100'},
-    {w:CFG.guardiaCm, t:'+135', k:'guardia'}
-  ];
-  for (const m of marken){
-    const el = document.createElement('div');
-    el.className = 'marke' + (m.k ? ' '+m.k : '');
-    el.style.bottom = pos(m.w)+'%';
-    el.innerHTML = `<span>${m.t}</span>`;
-    latte.appendChild(el);
-  }
-  const { minCm, maxCm, minLabel, maxLabel } = CFG.spanne5j;
-  const spanneUnten = Math.max(0, Math.min(100, pos(minCm)));
-  const spanneOben  = Math.max(0, Math.min(100, pos(maxCm)));
-  const spanne = $('#spanne5j');
-  spanne.style.bottom = spanneUnten + '%';
-  spanne.style.height = Math.max(0, spanneOben - spanneUnten) + '%';
-  $('#spanne5jMax').textContent = maxLabel;
-  $('#spanne5jMin').textContent = minLabel;
-
+  const pctAktuell = pos(cm);
+  const yAktuell = yFuer(pctAktuell);
   requestAnimationFrame(() => {
-    $('#wasser').style.height = Math.max(0, Math.min(100, pos(cm))) + '%';
+    $('#seeWasser').setAttribute('y', yAktuell);
+    $('#seeWasser').setAttribute('height', H - yAktuell);
+    $('#seeAktuellLinie').setAttribute('y1', yAktuell);
+    $('#seeAktuellLinie').setAttribute('y2', yAktuell);
   });
+  $('#seeLabelAktuell').textContent = `${cm>=0?'+':''}${zahl(cm,0)} cm aktuell`;
+  $('#seeLabelAktuell').style.bottom = pctAktuell + '%';
+
+  const pctMittel = pos(CFG.mittelCm);
+  const yMittel = yFuer(pctMittel);
+  $('#seeMittelLinie').setAttribute('y1', yMittel);
+  $('#seeMittelLinie').setAttribute('y2', yMittel);
+  $('#seeLabelMittel').textContent = CFG.mittelLabel;
+  $('#seeLabelMittel').style.bottom = pctMittel + '%';
+
+  const pctGuardia = pos(CFG.guardiaCm);
+  const yGuardia = yFuer(pctGuardia);
+  $('#seeGuardiaLinie').setAttribute('y1', yGuardia);
+  $('#seeGuardiaLinie').setAttribute('y2', yGuardia);
+  $('#seeLabelGuardia').style.bottom = pctGuardia + '%';
+}
+
+/* Kompakter Trend-Sparkline aus den letzten 14 Archiv-Tagen (siehe ladeSeepegelHistorie),
+ * damit man die jüngste Entwicklung auf einen Blick sieht, ohne den großen 4-Monats-Chart
+ * aufzurufen. */
+function zeichneTrendSparkline(tage){
+  const letzte = tage.slice(-14);
+  const svg = $('#trendSparkline');
+  if (letzte.length < 2){ svg.innerHTML = ''; return; }
+
+  const werte = letzte.map(t => t.cm);
+  const min = Math.min(...werte), max = Math.max(...werte);
+  const spanne = (max - min) || 1;
+  const W = 200, H = 40, pad = 3;
+  const pts = werte.map((v,i) => {
+    const x = (i/(werte.length-1)) * (W-2*pad) + pad;
+    const y = H - pad - ((v-min)/spanne) * (H-2*pad);
+    return `${x.toFixed(1)},${y.toFixed(1)}`;
+  });
+  const flaechePts = `${pad},${H-pad} ${pts.join(' ')} ${W-pad},${H-pad}`;
+  svg.innerHTML =
+    `<polygon class="sparkline-flaeche" points="${flaechePts}"/>` +
+    `<polyline class="sparkline-linie" points="${pts.join(' ')}"/>`;
 }
 
 function zeichnePegelChart(reihe){
@@ -383,6 +461,7 @@ async function ladeSeepegelHistorie(){
         + ' täglich echte ARPAV-Werte. Für einen Verlauf braucht es noch ein paar Tage mehr.</div>';
       return;
     }
+    zeichneTrendSparkline(tage);
     if (!box.querySelector('canvas')){
       box.innerHTML = '<canvas id="pegelHistorieChart"></canvas>';
     }

diff --git a/LIESMICH.md b/LIESMICH.md
@@ -19,12 +19,6 @@ und ist mehrere MB groß, was über einen einfachen Proxy gelegentlich zu Timeou
 ("ARPAV nicht erreichbar", obwohl ARPAV selbst erreichbar war). Die Function filtert
 serverseitig auf die Garda-Station und schickt nur noch ein paar KB an den Browser.
 
-Die `package.json` mit der Abhängigkeit `@netlify/blobs` gehört zwingend mit ins Deployment
-(auch bei Git-basierten Deploys, nicht nur bei "Ordner reinziehen"): ohne sie installiert
-Netlifys Build-Schritt das Paket nicht, und `seepegel-lesen.mjs`/`seepegel-archiv.mjs` liefern
-dann eine leere Antwort ohne erkennbare Fehlermeldung ("ARPAV nicht erreichbar" im Frontend,
-obwohl ARPAV gar nicht das Problem ist).
-
 ## Datenquellen
 
 | Element | Quelle | Umfang |
